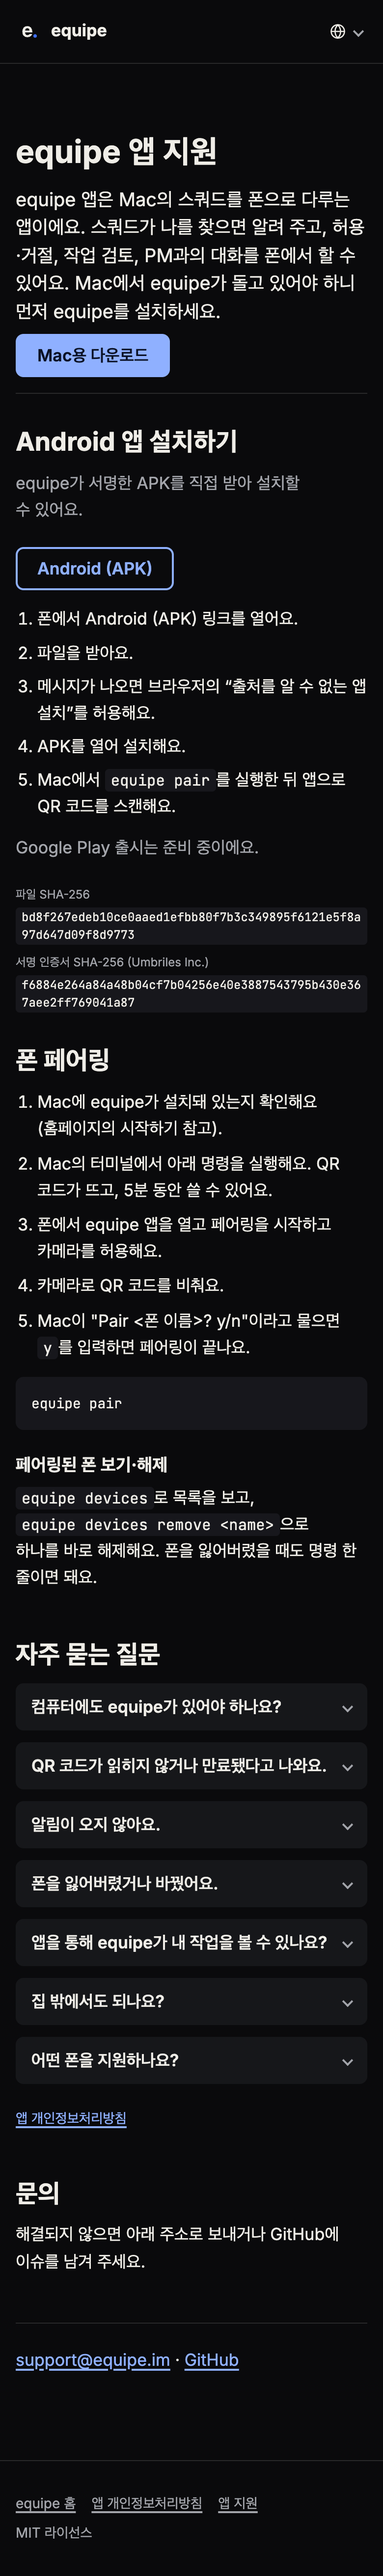
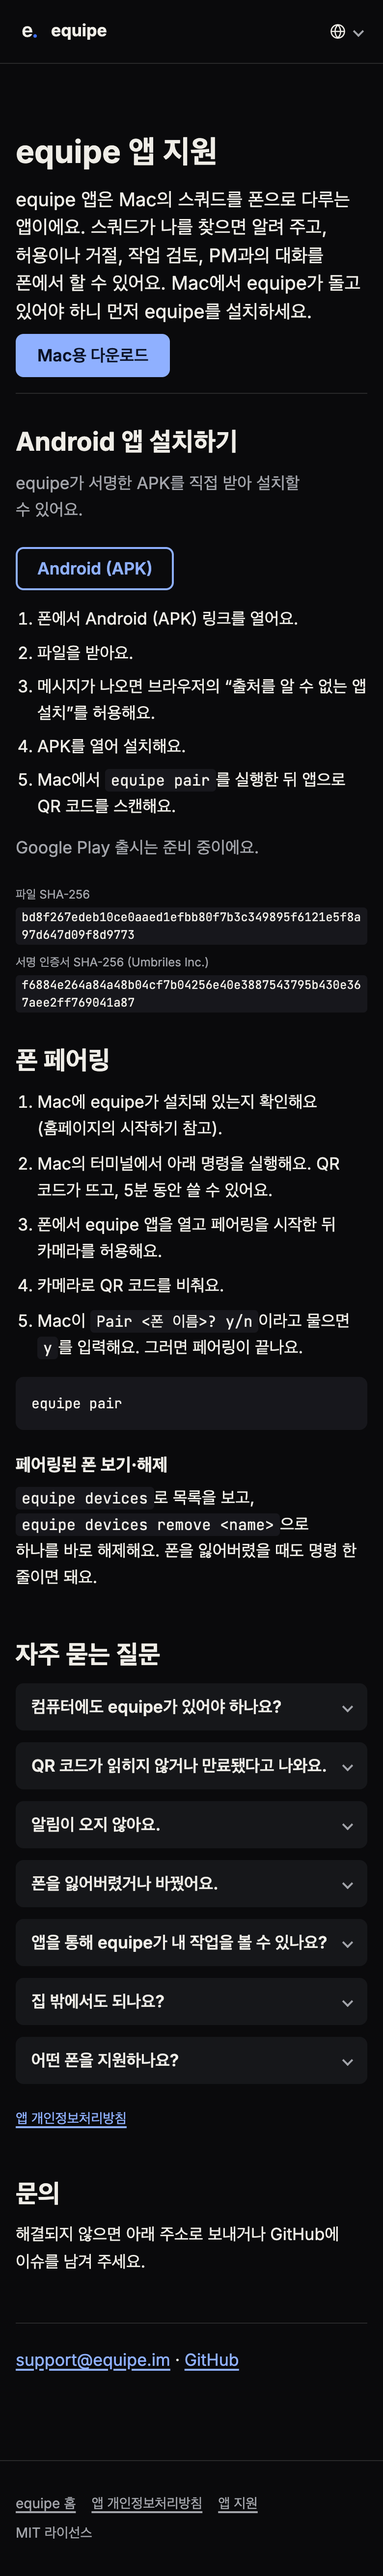
T-724 design QA fixes: 허용이나 거절, 폰으로, 시작한 뒤, IP wording, 아동 line, 저장소·URL joined, Pair prompt as code; re-shot ko map states

diff --git a/src/i18n/ko.ts b/src/i18n/ko.ts
@@ -250,9 +250,9 @@ equipe`,
           text: 'equipe 데스크톱 앱은 처음 실행할 때 익명 사용 데이터를 보낼지 물어요. 예라고 하기 전에는 아무것도 보내지 않아요. 휴대폰 앱은 이 데이터를 보내지 않아요.',
           items: [
             '**보내는 것.** 아래 이벤트만 보내요: `first_run`, `squad_created`, `ticket_created`, `work_handed_in`, `work_accepted`, `daily_active`. equipe 버전, `macos` 또는 `linux`, 무작위 설치 ID와 스쿼드 ID, 그리고 티켓 종류(`code`, `task`, `action`)나 하루 승인 횟수(범위) 같은 값만 담겨요. 팀 규모, 티켓을 만들거나 승인한 쪽(`person`, `pm`, `member`), 쓴 엔진(`claude`, `codex`), 날짜 같은 단순한 값도 함께 가요. 전체 목록은 `docs/TELEMETRY.md`에 있어요.',
-            '**절대 보내지 않는 것.** 대화·프롬프트·답변, 티켓 제목·본문·댓글·이미지, 파일·폴더·저장소·URL, 스쿼드·멤버·프로젝트·사람 이름, 이메일·전화번호·계정, 호스트 이름 같은 기기 식별자는 보내지 않아요.',
+            '**절대 보내지 않는 것.** 대화·프롬프트·답변, 티켓 제목·본문·댓글·이미지, 파일·폴더·저장소\u2060·\u2060URL, 스쿼드·멤버·프로젝트·사람 이름, 이메일·전화번호·계정, 호스트 이름 같은 기기 식별자는 보내지 않아요.',
             '**프로필 없음.** 사람 프로필과 GeoIP 조회를 끈 채로 보내요. 무작위 ID는 내 정보나 Mac 정보로 만들지 않아요.',
-            '**받는 곳.** 미국의 PostHog예요(equipe.im 방문을 세는 것과 같은 프로젝트). 요청이 닿을 때 IP 주소를 잠깐 거치지만 저장하지 않아요(이 PostHog 프로젝트는 클라이언트 IP를 버리도록 설정했어요).',
+            '**받는 곳.** 미국의 PostHog예요(equipe.im 방문을 세는 것과 같은 프로젝트). 요청이 닿을 때 IP 주소가 잠깐 지나가지만 저장하지 않아요(이 PostHog 프로젝트는 클라이언트 IP를 버리도록 설정했어요).',
             '**끄는 법.** `equipe telemetry off`를 실행하거나 `EQUIPE_TELEMETRY=off`를 설정하세요. 바로 적용되고 설치 ID도 지워져요. `equipe telemetry status`로 현재 상태를 볼 수 있어요. 전체 목록은 equipe 저장소의 `docs/TELEMETRY.md`에 있어요.',
           ],
         },
@@ -268,7 +268,7 @@ equipe`,
         },
         {
           title: '아동',
-          text: '앱은 아동을 대상으로 하지 않고, 아동의 개인정보를 알면서 수집하지 않아요.',
+          text: '앱은 아이를 위한 앱이 아니고, 아이의 개인정보인 줄 알면 모으지 않아요.',
           items: [],
         },
         {
@@ -289,21 +289,21 @@ equipe`,
         description: '`equipe pair`로 equipe 앱을 Mac과 페어링하는 방법, 자주 묻는 질문, 문의 방법.',
       },
       title: 'equipe 앱 지원',
-      intro: 'equipe 앱은 Mac의 스쿼드를 폰으로 다루는 앱이에요. 스쿼드가 나를 찾으면 알려 주고, 허용·거절, 작업 검토, PM과의 대화를 폰에서 할 수 있어요. Mac에서 equipe가 돌고 있어야 하니 먼저 equipe를 설치하세요.',
+      intro: 'equipe 앱은 Mac의 스쿼드를 폰으로 다루는 앱이에요. 스쿼드가 나를 찾으면 알려 주고, 허용이나 거절, 작업 검토, PM과의 대화를 폰에서 할 수 있어요. Mac에서 equipe가 돌고 있어야 하니 먼저 equipe를 설치하세요.',
       pairTitle: '폰 페어링',
       pairSteps: [
         'Mac에 equipe가 설치돼 있는지 확인해요(홈페이지의 시작하기 참고).',
         'Mac의 터미널에서 아래 명령을 실행해요. QR 코드가 뜨고, 5분 동안 쓸 수 있어요.',
-        '폰에서 equipe 앱을 열고 페어링을 시작하고 카메라를 허용해요.',
+        '폰에서 equipe 앱을 열고 페어링을 시작한 뒤 카메라를 허용해요.',
         '카메라로 QR 코드를 비춰요.',
-        'Mac이 "Pair <폰 이름>? y/n"이라고 물으면 `y`를 입력하면 페어링이 끝나요.',
+        'Mac이 `Pair <폰 이름>? y/n`이라고 물으면 `y`를 입력해요. 그러면 페어링이 끝나요.',
       ],
       pairCode: 'equipe pair',
       removeTitle: '페어링된 폰 보기·해제',
       removeText: '`equipe devices`로 목록을 보고, `equipe devices remove <name>`으로 하나를 바로 해제해요. 폰을 잃어버렸을 때도 명령 한 줄이면 돼요.',
       faqTitle: '자주 묻는 질문',
       faq: [
-        { question: '컴퓨터에도 equipe가 있어야 하나요?', answer: '네. 앱은 Mac의 equipe 데몬을 원격으로 다루는 앱이라, 데몬이 없으면 연결할 곳이 없어요. 먼저 equipe를 설치하세요.' },
+        { question: '컴퓨터에도 equipe가 있어야 하나요?', answer: '네. 앱은 Mac의 equipe 데몬을 폰으로 다루는 앱이라, 데몬이 없으면 연결할 곳이 없어요. 먼저 equipe를 설치하세요.' },
         { question: 'QR 코드가 읽히지 않거나 만료됐다고 나와요.', answer: '코드는 5분 동안만 쓸 수 있어요. `equipe pair`를 다시 실행해 새 코드를 만들고, 화면에서 QR을 크고 밝게 띄워 보세요.' },
         { question: '알림이 오지 않아요.', answer: '폰 설정에서 equipe 알림이 허용되어 있는지, Mac에서 데몬이 실행 중인지(`equipe status`) 확인하세요.' },
         { question: '폰을 잃어버렸거나 바꿨어요.', answer: 'Mac에서 `equipe devices remove <name>`을 실행한 뒤, 새 폰을 `equipe pair`로 페어링하세요.' },
